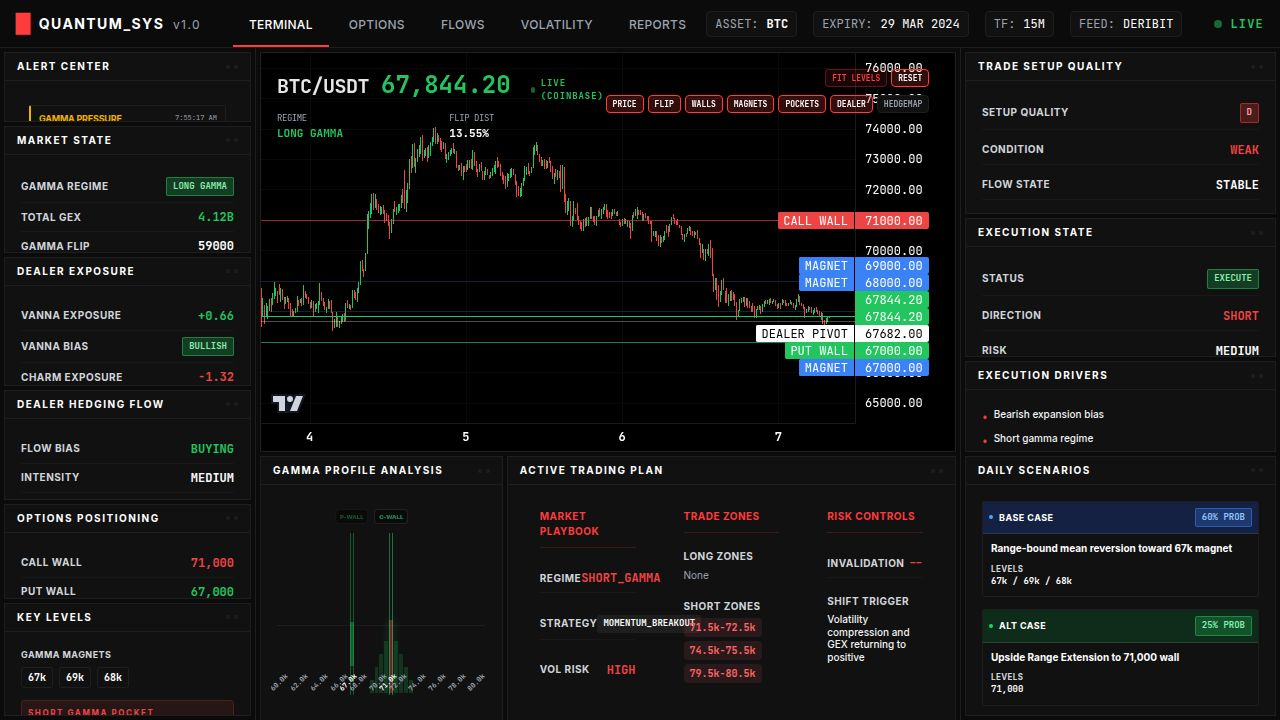
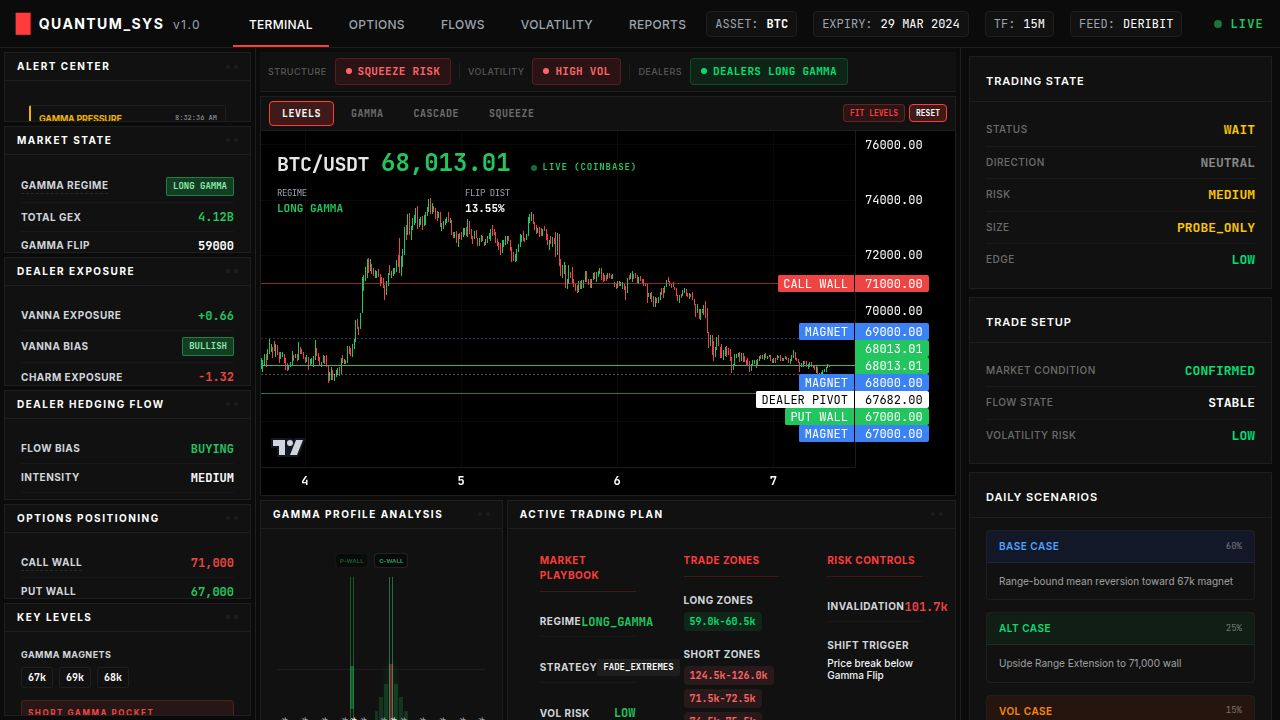
Add educational tooltips to explain key trading concepts and chart modes
Introduce a new Tooltip component and integrate it across the application to provide definitions for various market terms and chart overlay modes, enhancing user understanding of complex financial data.

Replit-Commit-Author: Agent
Replit-Commit-Session-Id: f6c5170a-22e2-47a2-be42-87f4565b3f5b
Replit-Commit-Checkpoint-Type: full_checkpoint
Replit-Commit-Event-Id: 43afb450-44fe-49e9-8e3d-a625fc6e15d4
Replit-Commit-Screenshot-Url: https://storage.googleapis.com/screenshot-production-us-central1/0816ca60-048d-4c47-9f02-2b324f40955c/f6c5170a-22e2-47a2-be42-87f4565b3f5b/AjdRIQW
Replit-Helium-Checkpoint-Created: true

diff --git a/client/src/components/terminal/Tooltip.tsx b/client/src/components/terminal/Tooltip.tsx
@@ -1,0 +1,99 @@
+import { useState, useRef } from "react";
+import { cn } from "@/lib/utils";
+
+const TOOLTIPS: Record<string, { title: string; text: string }> = {
+  "Gamma Regime": {
+    title: "GAMMA REGIME",
+    text: "Dealers hedge against price moves. LONG GAMMA stabilizes price and creates mean reversion. SHORT GAMMA amplifies volatility."
+  },
+  "Gamma Flip": {
+    title: "GAMMA FLIP",
+    text: "Level where dealer positioning changes from stabilizing the market to amplifying volatility."
+  },
+  "Call Wall": {
+    title: "CALL WALL",
+    text: "Large concentration of call options. Often acts as resistance due to dealer hedging."
+  },
+  "Put Wall": {
+    title: "PUT WALL",
+    text: "Large concentration of put options. Often acts as support due to dealer hedging."
+  },
+  "Magnet": {
+    title: "GAMMA MAGNET",
+    text: "Strike with heavy options positioning. Price often gravitates toward these levels."
+  },
+  "Dealer Pivot": {
+    title: "DEALER PIVOT",
+    text: "Key level where dealer hedging flow may shift direction."
+  },
+  "Squeeze Risk": {
+    title: "SQUEEZE RISK",
+    text: "Market conditions where hedging flows may accelerate price movement rapidly."
+  },
+  "Transition Zone": {
+    title: "TRANSITION ZONE",
+    text: "Area where the market moves between long gamma and short gamma regimes."
+  },
+  "Structure": {
+    title: "MARKET STRUCTURE",
+    text: "High-level market mode derived from gamma positioning, volatility state, and institutional bias."
+  },
+  "Volatility": {
+    title: "VOLATILITY",
+    text: "Current volatility environment. LOW means stable price action, HIGH means larger moves are expected."
+  },
+  "Dealers": {
+    title: "DEALER CONTEXT",
+    text: "Current dealer gamma positioning. Determines whether dealers stabilize or amplify price moves."
+  },
+  "LEVELS": {
+    title: "LEVELS MODE",
+    text: "Shows structural levels: Call Wall, Put Wall, Gamma Magnets, and Dealer Pivot."
+  },
+  "GAMMA": {
+    title: "GAMMA MODE",
+    text: "Shows gamma structure: Gamma Flip, Transition Zone, and Gamma Cliffs."
+  },
+  "CASCADE": {
+    title: "CASCADE MODE",
+    text: "Shows cascade risk: Cascade Trigger and Liquidation Pocket zones."
+  },
+  "SQUEEZE": {
+    title: "SQUEEZE MODE",
+    text: "Shows squeeze setup: Squeeze Trigger and Squeeze Target levels."
+  },
+};
+
+interface TooltipWrapperProps {
+  concept: string;
+  children: React.ReactNode;
+  className?: string;
+}
+
+export function TooltipWrapper({ concept, children, className }: TooltipWrapperProps) {
+  const [show, setShow] = useState(false);
+  const ref = useRef<HTMLDivElement>(null);
+  const tip = TOOLTIPS[concept];
+
+  if (!tip) return <>{children}</>;
+
+  return (
+    <div
+      ref={ref}
+      className={cn("relative inline-flex", className)}
+      onMouseEnter={() => setShow(true)}
+      onMouseLeave={() => setShow(false)}
+    >
+      {children}
+      {show && (
+        <div className="absolute z-50 bottom-full left-1/2 -translate-x-1/2 mb-2 pointer-events-none">
+          <div className="bg-[#1a1a1a] border border-white/10 rounded px-3 py-2 shadow-xl min-w-[200px] max-w-[260px]">
+            <div className="text-[10px] font-bold uppercase tracking-wider text-white/80 mb-1">{tip.title}</div>
+            <div className="text-[10px] leading-relaxed text-white/50">{tip.text}</div>
+          </div>
+          <div className="absolute left-1/2 -translate-x-1/2 top-full w-0 h-0 border-l-4 border-r-4 border-t-4 border-l-transparent border-r-transparent border-t-white/10" />
+        </div>
+      )}
+    </div>
+  );
+}

diff --git a/client/src/components/terminal/LeftSidebar.tsx b/client/src/components/terminal/LeftSidebar.tsx
@@ -133,11 +133,11 @@ export function LeftSidebar() {
       </TerminalPanel>
 
       <TerminalPanel title="MARKET STATE">
-        <TerminalValue label="Gamma Regime" value={market?.gammaRegime ?? "--"} trend={market?.gammaRegime === "LONG GAMMA" ? "positive" : "negative"} isBadge />
+        <TerminalValue label="Gamma Regime" value={market?.gammaRegime ?? "--"} trend={market?.gammaRegime === "LONG GAMMA" ? "positive" : "negative"} isBadge tooltip="Gamma Regime" />
         <TerminalValue label="Total GEX" value={market ? `${(market.totalGex / 1e9).toFixed(2)}B` : "--"} trend={market && market.totalGex > 0 ? "positive" : "negative"} />
-        <TerminalValue label="Gamma Flip" value={market?.gammaFlip ?? "--"} />
+        <TerminalValue label="Gamma Flip" value={market?.gammaFlip ?? "--"} tooltip="Gamma Flip" />
         <TerminalValue label="Dist. to Flip" value={market?.distanceToFlip != null ? `${market.distanceToFlip.toFixed(2)}%` : "--"} trend={market && market.distanceToFlip < 5 ? "positive" : "neutral"} />
-        <TerminalValue label="Transition Zone" value={market?.transitionZoneStart != null && market?.transitionZoneEnd != null ? `${Math.round(market.transitionZoneStart)} - ${Math.round(market.transitionZoneEnd)}` : "--"} />
+        <TerminalValue label="Transition Zone" value={market?.transitionZoneStart != null && market?.transitionZoneEnd != null ? `${Math.round(market.transitionZoneStart)} - ${Math.round(market.transitionZoneEnd)}` : "--"} tooltip="Transition Zone" />
         <TerminalValue label="Gamma Accel" value={market?.gammaAcceleration ?? "--"} trend="positive" />
       </TerminalPanel>
 
@@ -159,10 +159,10 @@ export function LeftSidebar() {
       </TerminalPanel>
 
       <TerminalPanel title="OPTIONS POSITIONING">
-        <TerminalValue label="Call Wall" value={positioning?.callWall ? positioning.callWall.toLocaleString() : "--"} trend="negative" />
-        <TerminalValue label="Put Wall" value={positioning?.putWall ? positioning.putWall.toLocaleString() : "--"} trend="positive" />
+        <TerminalValue label="Call Wall" value={positioning?.callWall ? positioning.callWall.toLocaleString() : "--"} trend="negative" tooltip="Call Wall" />
+        <TerminalValue label="Put Wall" value={positioning?.putWall ? positioning.putWall.toLocaleString() : "--"} trend="positive" tooltip="Put Wall" />
         <TerminalValue label="OI Concentration" value={positioning?.oiConcentration ? positioning.oiConcentration.toLocaleString() : "--"} />
-        <TerminalValue label="Dealer Pivot" value={positioning?.dealerPivot ?? "--"} />
+        <TerminalValue label="Dealer Pivot" value={positioning?.dealerPivot ?? "--"} tooltip="Dealer Pivot" />
       </TerminalPanel>
 
       <TerminalPanel title="KEY LEVELS">

diff --git a/client/src/components/terminal/MainChart.tsx b/client/src/components/terminal/MainChart.tsx
@@ -5,6 +5,7 @@ import { TerminalPanel } from "./TerminalPanel";
 import { OptionsPositioning, MarketState, KeyLevels, DealerExposure, TradingScenario } from "@shared/schema";
 import { cn } from "@/lib/utils";
 import { useTerminalState } from "@/hooks/useTerminalState";
+import { TooltipWrapper } from "./Tooltip";
 
 type MapMode = "LEVELS" | "GAMMA" | "CASCADE" | "SQUEEZE";
 
@@ -305,19 +306,20 @@ export function MainChart() {
     <div className="flex-1 w-full h-full flex flex-col relative">
       <div className="flex items-center gap-1 px-2 py-1 bg-terminal-panel border border-terminal-border border-b-0 shrink-0" data-testid="toggle-map-mode">
         {modes.map(mode => (
-          <button
-            key={mode}
-            onClick={() => setMapMode(mode)}
-            className={cn(
-              "px-3 py-1 text-[10px] font-bold font-mono uppercase tracking-wider rounded-sm transition-all",
-              mapMode === mode
-                ? "bg-terminal-accent/20 border border-terminal-accent text-white"
-                : "border border-transparent text-white/40 hover:text-white/60 hover:bg-white/[0.03]"
-            )}
-            data-testid={`button-mode-${mode.toLowerCase()}`}
-          >
-            {mode}
-          </button>
+          <TooltipWrapper key={mode} concept={mode}>
+            <button
+              onClick={() => setMapMode(mode)}
+              className={cn(
+                "px-3 py-1 text-[10px] font-bold font-mono uppercase tracking-wider rounded-sm transition-all",
+                mapMode === mode
+                  ? "bg-terminal-accent/20 border border-terminal-accent text-white"
+                  : "border border-transparent text-white/40 hover:text-white/60 hover:bg-white/[0.03]"
+              )}
+              data-testid={`button-mode-${mode.toLowerCase()}`}
+            >
+              {mode}
+            </button>
+          </TooltipWrapper>
         ))}
         <div className="flex-1" />
         <div className="flex items-center gap-1">

diff --git a/client/src/components/terminal/MarketStructureBar.tsx b/client/src/components/terminal/MarketStructureBar.tsx
@@ -1,6 +1,7 @@
 import { cn } from "@/lib/utils";
 import { useTerminalState } from "@/hooks/useTerminalState";
 import { useMemo } from "react";
+import { TooltipWrapper } from "./Tooltip";
 
 type Structure = "RANGE CONTROL" | "TRANSITION" | "VOLATILITY EXPANSION" | "SQUEEZE RISK";
 type VolLevel = "LOW VOL" | "MEDIUM VOL" | "HIGH VOL";
@@ -109,12 +110,14 @@ export function MarketStructureBar() {
 
 function Pill({ label, value, colorClass }: { label: string; value: string; colorClass: string }) {
   return (
-    <div className="flex items-center gap-2">
-      <span className="text-[9px] uppercase tracking-wider text-white/30 font-medium hidden sm:inline">{label}</span>
-      <span className={cn("inline-flex items-center gap-1.5 px-2.5 py-1 rounded border text-[11px] font-bold font-mono tracking-wide", colorClass)}>
-        <span className={cn("w-1.5 h-1.5 rounded-full shrink-0", getDotColor(colorClass))} />
-        {value}
-      </span>
-    </div>
+    <TooltipWrapper concept={label}>
+      <div className="flex items-center gap-2 cursor-help">
+        <span className="text-[9px] uppercase tracking-wider text-white/30 font-medium hidden sm:inline">{label}</span>
+        <span className={cn("inline-flex items-center gap-1.5 px-2.5 py-1 rounded border text-[11px] font-bold font-mono tracking-wide", colorClass)}>
+          <span className={cn("w-1.5 h-1.5 rounded-full shrink-0", getDotColor(colorClass))} />
+          {value}
+        </span>
+      </div>
+    </TooltipWrapper>
   );
 }

diff --git a/client/src/components/terminal/TerminalPanel.tsx b/client/src/components/terminal/TerminalPanel.tsx
@@ -1,5 +1,6 @@
 import React from "react";
 import { cn } from "@/lib/utils";
+import { TooltipWrapper } from "./Tooltip";
 
 interface TerminalPanelProps extends React.HTMLAttributes<HTMLDivElement> {
   title?: string;
@@ -42,16 +43,26 @@ export function TerminalValue({
   label, 
   value, 
   trend,
-  isBadge = false
+  isBadge = false,
+  tooltip
 }: { 
   label: string; 
   value: React.ReactNode;
   trend?: "positive" | "negative" | "neutral";
   isBadge?: boolean;
+  tooltip?: string;
 }) {
+  const labelEl = tooltip ? (
+    <TooltipWrapper concept={tooltip}>
+      <span className="terminal-text-label text-[10px] transition-colors cursor-help border-b border-dashed border-white/10">{label}</span>
+    </TooltipWrapper>
+  ) : (
+    <span className="terminal-text-label text-[10px] transition-colors">{label}</span>
+  );
+
   return (
     <div className="flex justify-between items-center py-1.5 border-b border-white/[0.03] last:border-0 group">
-      <span className="terminal-text-label text-[10px] transition-colors">{label}</span>
+      {labelEl}
       {isBadge ? (
         <span className={cn(
           "terminal-badge",
